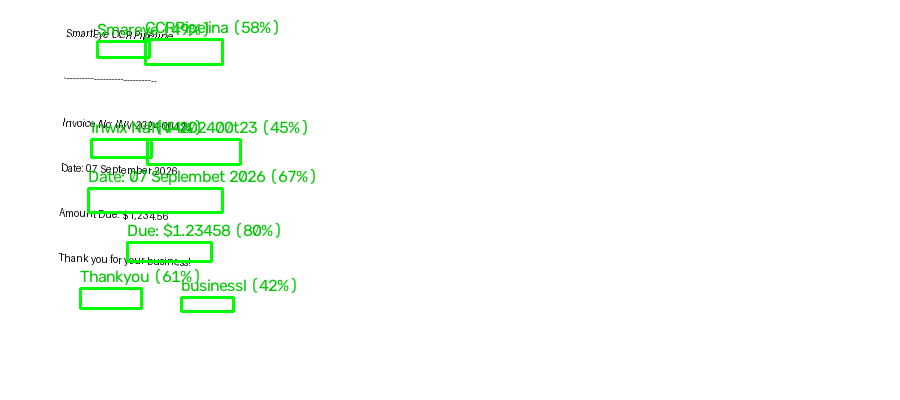
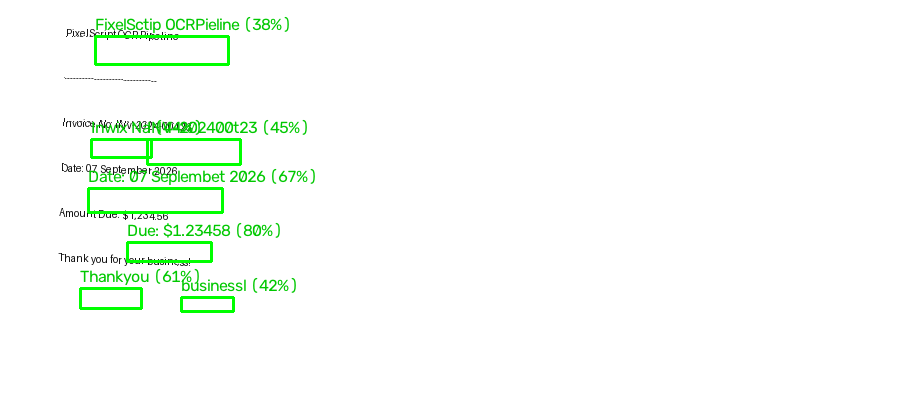
Fix sample text: SmartEye -> PixelScript

Changed region(s): [[0.0622, 0.03, 0.3111, 0.18]]

diff --git a/scripts/generate_sample.py b/scripts/generate_sample.py
@@ -16,7 +16,7 @@ img = Image.new("RGB", (W, H), color=(255, 255, 255))
 draw = ImageDraw.Draw(img)
 
 lines = [
-    "SmartEye OCR Pipeline",
+    "PixelScript OCR Pipeline",
     "-------------------------------",
     "Invoice No: INV-2024-00123",
     "Date: 07 September 2026",

diff --git a/README.md b/README.md
@@ -38,7 +38,7 @@ The pipeline is split into three focused layers:
 **Terminal output:**
 ```
 ------------------------------------------------------------
-SmartEye OCR Pipeline
+PixelScript OCR Pipeline
 Invoice No: INV-2024-00123
 Date: 07 September 2026
 Amount Due: $1,234.56
